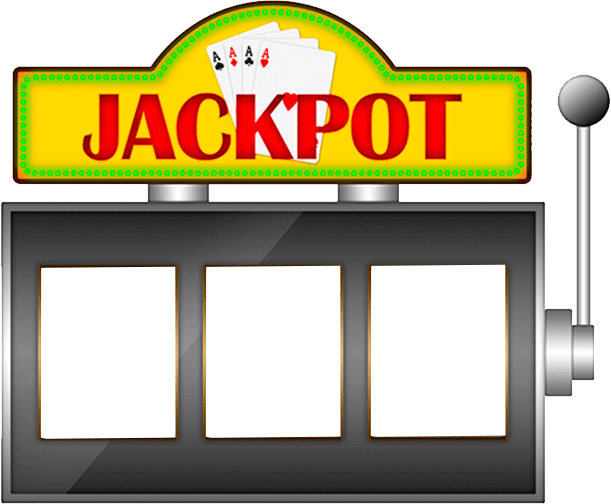
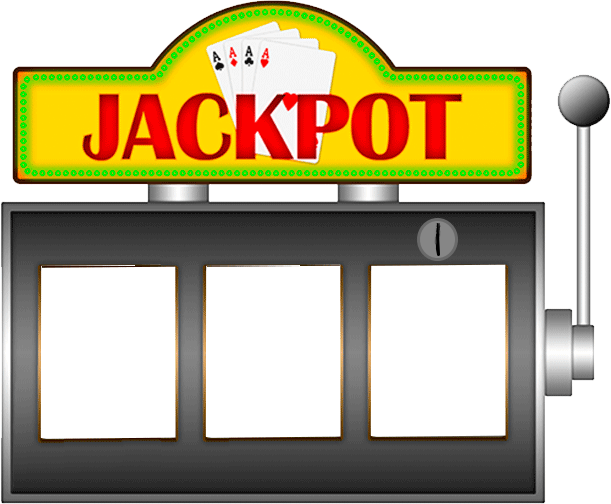
Added scoring, betting, coins. Updated images.

diff --git a/slots.py b/slots.py
@@ -1,6 +1,8 @@
 import pygame
 import sys
 from random import randint
+from settings import Settings
+from settings import check_win
 
 symbols = ["bar.png", "barbar.png", "barbarbar.png", "seven.png", "lemon.png",
            "melon.png", "grape.png", "orange.png", "banana.png", "cherry.png"]
@@ -31,15 +33,21 @@ class SlotMachine:
     def __init__(self):
         """Initialize the game, and create game resources."""
         pygame.init()
-        self.screen = pygame.display.set_mode((800, 600))
+        self.settings = Settings()
+        self.screen = pygame.display.set_mode((
+            self.settings.screen_width, self.settings.screen_height))
         self.screen_rect = self.screen.get_rect()
         pygame.display.set_caption("Slot Machine")
         self.background = pygame.image.load('background.png')
         self.background_rect = self.background.get_rect()
         self.background_rect.center = self.screen_rect.center
-        self.jackpot = 1000
-        self.winnings = 0
-        self.bet = 1
+        self.jackpot = self.settings.jackpot
+        self.winnings = self.settings.winnings
+        self.bet = self.settings.bet
+        self.bet_max = self.settings.bet_max
+        self.coins = self.settings.coins
+        self.coins_max = self.settings.coins_max
+        self.running = False
 
         self.wheel_left = Wheel(self)
         self.wheel_middle = Wheel(self)
@@ -84,13 +92,26 @@ class SlotMachine:
                     self.wheel_left.spinning = False
                     self.wheel_middle.spinning = False
                     self.wheel_right.spinning = False
-            # elif event.type == pygame.KEYUP:
-            #     if event.key == pygame.K_LEFT:
-            #         self.wheel_left.spinning = False
+            elif event.type == pygame.MOUSEBUTTONDOWN:
+                mouse_pos = pygame.mouse.get_pos()
+                bet_inc_clicked = self.bet_inc_rect.collidepoint(mouse_pos)
+                bet_dec_clicked = self.bet_dec_rect.collidepoint(mouse_pos)
+                spin_clicked = self.spin_rect.collidepoint(mouse_pos)
+                coin_clicked = self.coin_image_rect.collidepoint(mouse_pos)
+                if bet_inc_clicked and self.bet < self.bet_max:
+                    self.bet += 1
+                if bet_dec_clicked and self.bet > 1:
+                    self.bet -= 1
+                if spin_clicked:
+                    self._spin()
+                if coin_clicked and self.coins < self.coins_max:
+                    self.coins += 10
+                    if self.coins > self.coins_max:
+                        self.coins = self.coins_max
 
     def _update_screen(self):
         """Update images on the screen and flip to the new screen."""
-        self.screen.fill((255, 255, 255))
+        self.screen.fill(self.settings.bg_color)
         self.screen.blit(self.background, self.background_rect)
         self.wheel_left.update()
         self.wheel_middle.update()
@@ -99,53 +120,129 @@ class SlotMachine:
         pygame.display.flip()
 
     def _spin(self):
-        self.jackpot += self.bet
-        self.wheel_left.spinning = True
-        self.wheel_middle.spinning = True
-        self.wheel_right.spinning = True
-        for i in range(301):
-            if i > 100:
-                self.wheel_left.spinning = False
-            if i > 200:
-                self.wheel_middle.spinning = False
-            if i == 300:
-                self.wheel_right.spinning = False
-            self.wheel_left.update()
-            self.wheel_middle.update()
-            self.wheel_right.update()
-            pygame.display.flip()
-        self._check_win()
-
-    def _check_win(self):
-        # Wheel keys are:
-        # 0 - bar
-        # 1 - barbar
-        # 2 - barbarbar
-        # 3 - seven
-        # 4 - lemon
-        # 5 - melon
-        # 6 - grape
-        # 7 - orange
-        # 8 - banana
-        # 9 - cherry
-        if self.wheel_left.value == self.wheel_middle.value and self.wheel_left.value == self.wheel_right.value:
-            self.winnings += ((self.wheel_left.value + 1) * 10)
-        if self.wheel_left.value == 0 or self.wheel_left.value == 1 or self.wheel_left.value == 2:
-            if self.wheel_middle.value == 0 or self.wheel_middle.value == 1 or self.wheel_middle.value == 2:
-                if self.wheel_right.value == 0 or self.wheel_right.value == 1 or self.wheel_right.value == 2:
-                    self.winnings += (((self.wheel_left.value + 1) + (
-                        self.wheel_middle.value + 1) + (self.wheel_right.value + 1)) * 10)
-        if self.wheel_left.value == 3 and self.wheel_middle.value == 3 and self.wheel_right.value == 3:
-            self.winnings += self.jackpot
-            self.jackpot = 1000
+        if self.coins >= self.bet:
+            self.coins -= self.bet
+            self.wheel_left.spinning = True
+            self.wheel_middle.spinning = True
+            self.wheel_right.spinning = True
+            for i in range(301):
+                if i > 100:
+                    self.wheel_left.spinning = False
+                if i > 200:
+                    self.wheel_middle.spinning = False
+                if i == 300:
+                    self.wheel_right.spinning = False
+                self.wheel_left.update()
+                self.wheel_middle.update()
+                self.wheel_right.update()
+                pygame.display.flip()
+            check_win(self)
 
     def _update_display(self):
-        self.text_color = (30, 30, 30)
-        self.bg_color = (255, 255, 255)
-        self.font = pygame.font.SysFont(None, 48)
+        self.text_color = self.settings.text_color
+        self.text_color_white = self.settings.text_color_white
+        self.text_color_yellow = self.settings.text_color_yellow
+        self.bg_color = self.settings.bg_color
+        self.bg_color_dark = self.settings.bg_color_dark
+        self.bg_color_red = self.settings.bg_color_red
+        self.font_size_lg = self.settings.text_size_lg
+        self.font_size_med = self.settings.text_size_med
+        self.font_size_sm = self.settings.text_size_sm
 
-        jackpot_str = "Jackpot = {:,}".format(self.jackpot)
-        self.jackpot_image = self.font.render(
+        self.font_lg = pygame.font.SysFont(None, self.font_size_lg)
+        self.font_med = pygame.font.SysFont(None, self.font_size_med)
+        self.font_sm = pygame.font.SysFont(None, self.font_size_sm)
+
+        bet_str = "Bet: {:,}".format(self.bet)
+        self.bet_image = self.font_med.render(
+            bet_str, True, self.text_color_white, self.bg_color_dark)
+        self.bet_rect = self.bet_image.get_rect()
+        self.bet_rect.center = self.screen_rect.center
+        self.bet_rect.x = self.bet_rect.x - 205
+        self.bet_rect.y = self.bet_rect.y + 206
+        self.screen.blit(self.bet_image, self.bet_rect)
+
+        coins_str = "Coins: {:,}".format(self.coins)
+        self.coins_image = self.font_med.render(
+            coins_str, True, self.text_color_white, self.bg_color_dark)
+        self.coins_rect = self.coins_image.get_rect()
+        self.coins_rect.center = self.screen_rect.center
+        self.coins_rect.x = self.coins_rect.x + 133
+        self.coins_rect.y = self.coins_rect.y + 206
+        self.screen.blit(self.coins_image, self.coins_rect)
+
+        coins_max_str = "(max {:,})".format(self.coins_max)
+        self.coins_max_image = self.font_sm.render(
+            coins_max_str, True, self.text_color_white, self.bg_color_dark)
+        self.coins_max_rect = self.coins_max_image.get_rect()
+        self.coins_max_rect.center = self.screen_rect.center
+        self.coins_max_rect.x = self.coins_max_rect.x + 133
+        self.coins_max_rect.y = self.coins_max_rect.y + 230
+        self.screen.blit(self.coins_max_image, self.coins_max_rect)
+
+        insert_coins_str = "Insert coins to play!   >>>"
+        self.insert_coins_image = self.font_med.render(
+            insert_coins_str, True, self.text_color_yellow, self.bg_color_dark)
+        self.insert_coins_rect = self.insert_coins_image.get_rect()
+        self.insert_coins_rect.center = self.screen_rect.center
+        self.insert_coins_rect.x = self.insert_coins_rect.x - 100
+        self.insert_coins_rect.y = self.insert_coins_rect.y - 15
+        self.screen.blit(self.insert_coins_image, self.insert_coins_rect)
+
+        self.coin_image = pygame.image.load("coin.png")
+        self.coin_image_rect = self.coin_image.get_rect()
+        self.coin_image_rect.center = self.screen_rect.center
+        self.coin_image_rect.x = self.coin_image_rect.x + 80
+        self.coin_image_rect.y = self.coin_image_rect.y - 15
+        self.screen.blit(self.coin_image, self.coin_image_rect)
+
+        bet_max_str = "(max {:,})".format(self.bet_max)
+        self.bet_max_image = self.font_sm.render(
+            bet_max_str, True, self.text_color_white, self.bg_color_dark)
+        self.bet_max_rect = self.bet_max_image.get_rect()
+        self.bet_max_rect.center = self.screen_rect.center
+        self.bet_max_rect.x = self.bet_max_rect.x - 205
+        self.bet_max_rect.y = self.bet_max_rect.y + 230
+        self.screen.blit(self.bet_max_image, self.bet_max_rect)
+
+        bet_inc_str = "+"
+        self.bet_inc_image = self.font_sm.render(
+            bet_inc_str, True, self.text_color_white, self.bg_color_red)
+        self.bet_inc_image_rect = self.bet_inc_image.get_rect()
+        self.bet_inc_rect = pygame.Rect(0, 0, 20, 20)
+        self.bet_inc_rect.center = self.screen_rect.center
+        self.bet_inc_rect.x = self.bet_inc_rect.x - 150
+        self.bet_inc_rect.y = self.bet_inc_rect.y + 202
+        self.screen.fill(self.bg_color_red, self.bet_inc_rect)
+        self.bet_inc_image_rect.center = self.bet_inc_rect.center
+        self.screen.blit(self.bet_inc_image, self.bet_inc_image_rect)
+
+        bet_dec_str = "-"
+        self.bet_dec_image = self.font_sm.render(
+            bet_dec_str, True, self.text_color_white, self.bg_color_red)
+        self.bet_dec_image_rect = self.bet_dec_image.get_rect()
+        self.bet_dec_rect = pygame.Rect(0, 0, 20, 20)
+        self.bet_dec_rect.center = self.screen_rect.center
+        self.bet_dec_rect.x = self.bet_dec_rect.x - 150
+        self.bet_dec_rect.y = self.bet_dec_rect.y + 226
+        self.screen.fill(self.bg_color_red, self.bet_dec_rect)
+        self.bet_dec_image_rect.center = self.bet_dec_rect.center
+        self.screen.blit(self.bet_dec_image, self.bet_dec_image_rect)
+
+        spin_str = "SPIN"
+        self.spin_image = self.font_med.render(
+            spin_str, True, self.text_color_white, self.bg_color_red)
+        self.spin_image_rect = self.spin_image.get_rect()
+        self.spin_rect = pygame.Rect(0, 0, 100, 40)
+        self.spin_rect.center = self.screen_rect.center
+        self.spin_rect.x = self.spin_rect.x - 32
+        self.spin_rect.y = self.spin_rect.y + 213
+        self.screen.fill(self.bg_color_red, self.spin_rect)
+        self.spin_image_rect.center = self.spin_rect.center
+        self.screen.blit(self.spin_image, self.spin_image_rect)
+
+        jackpot_str = "Jackpot: {:,}".format(self.jackpot)
+        self.jackpot_image = self.font_lg.render(
             jackpot_str, True, self.text_color, self.bg_color)
         # Display the jackpot at the top right of the screen.
         self.jackpot_rect = self.jackpot_image.get_rect()
@@ -153,8 +250,8 @@ class SlotMachine:
         self.jackpot_rect.top = 20
         self.screen.blit(self.jackpot_image, self.jackpot_rect)
 
-        winnings_str = "Winnings = {:,}".format(self.winnings)
-        self.winnings_image = self.font.render(
+        winnings_str = "Winnings: {:,}".format(self.winnings)
+        self.winnings_image = self.font_lg.render(
             winnings_str, True, self.text_color, self.bg_color)
         # Display the winnings at the top left of the screen.
         self.winnings_rect = self.winnings_image.get_rect()

diff --git a/settings.py b/settings.py
@@ -1,0 +1,61 @@
+class Settings:
+
+    def __init__(self):
+        # text attributes
+        self.text_color = (25, 25, 25)
+        self.text_color_white = (255, 255, 255)
+        self.text_color_yellow = (255, 255, 0)
+        self.text_size_lg = 48
+        self.text_size_med = 36
+        self.text_size_sm = 24
+
+        # background colors
+        self.bg_color = (255, 255, 255)
+        self.bg_color_dark = (60, 60, 60)
+        self.bg_color_red = (232, 62, 51)
+
+        # screen dimensions
+        self.screen_width = 800
+        self.screen_height = 600
+
+        # gambling settings
+        self.jackpot = 1000
+        self.bet = 1
+        self.bet_max = 3
+        self.winnings = 0
+        self.coins = 0
+        self.coins_max = 30
+
+
+def check_win(self):
+    # Wheel keys are:
+    # 0 - bar
+    # 1 - barbar
+    # 2 - barbarbar
+    # 3 - seven
+    # 4 - lemon
+    # 5 - melon
+    # 6 - grape
+    # 7 - orange
+    # 8 - banana
+    # 9 - cherry
+    if self.wheel_left.value == self.wheel_middle.value and self.wheel_left.value == self.wheel_right.value:
+        self.winnings += ((self.wheel_left.value + 1) * 10) * self.bet
+    elif self.wheel_left.value == 0 or self.wheel_left.value == 1 or self.wheel_left.value == 2:
+        if self.wheel_middle.value == 0 or self.wheel_middle.value == 1 or self.wheel_middle.value == 2:
+            if self.wheel_right.value == 0 or self.wheel_right.value == 1 or self.wheel_right.value == 2:
+                self.winnings += (((self.wheel_left.value + 1) + (
+                    self.wheel_middle.value + 1) + (self.wheel_right.value + 1)) * 10) * self.bet
+            else:
+                self.jackpot += self.bet * 10
+        else:
+            self.jackpot += self.bet * 10
+    elif self.wheel_left.value == 3 and self.wheel_middle.value == 3 and self.wheel_right.value == 3:
+        self.winnings += self.jackpot * self.bet
+        self.jackpot = 1000
+    else:
+        self.jackpot += self.bet * 10
+
+    # Update gambling values based on wins
+    self.bet_max = max(self.bet_max, int(self.winnings / 100))
+    self.coins_max = max(self.coins_max, int(self.winnings / 10))
